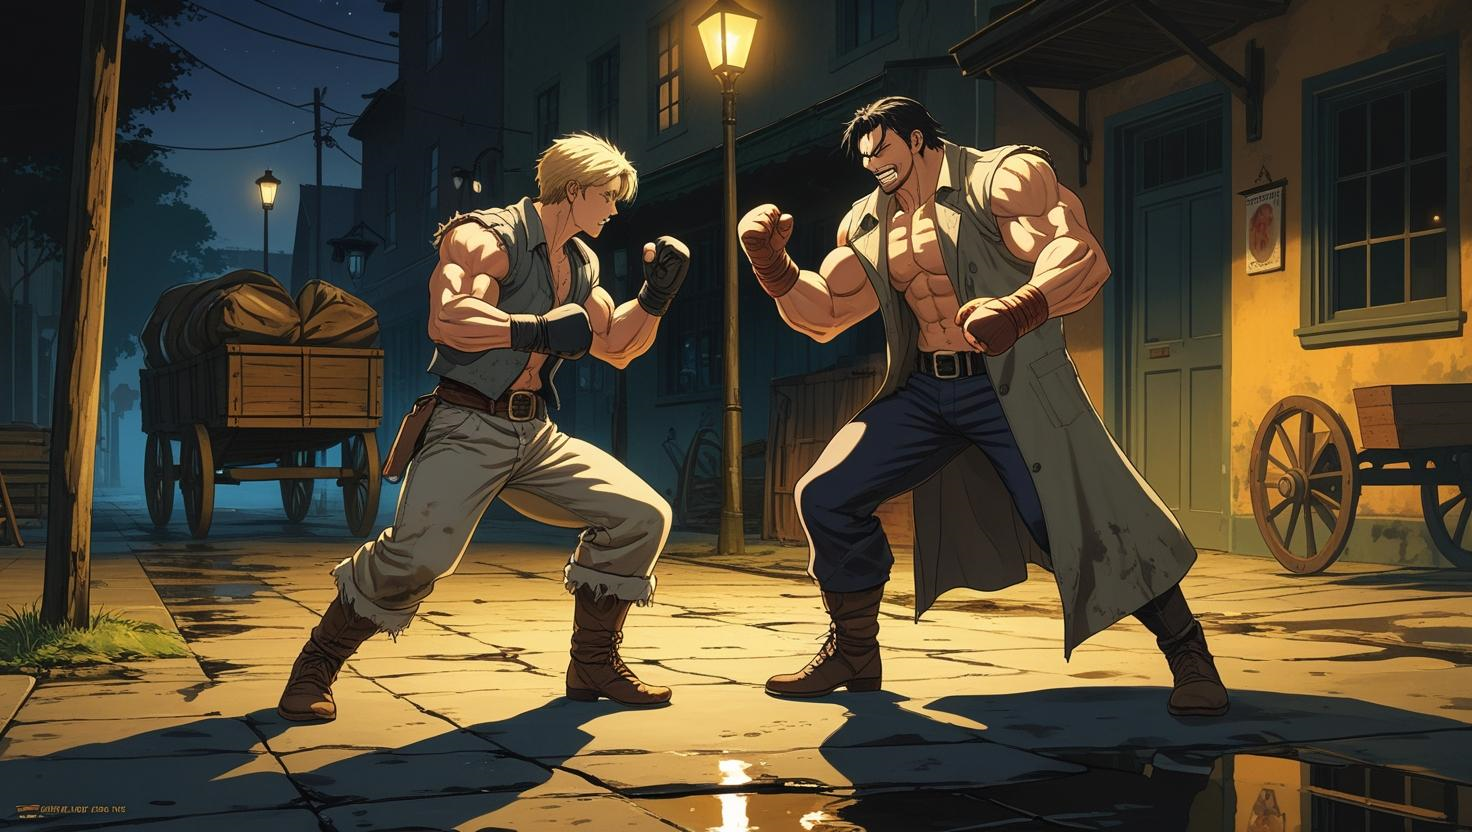
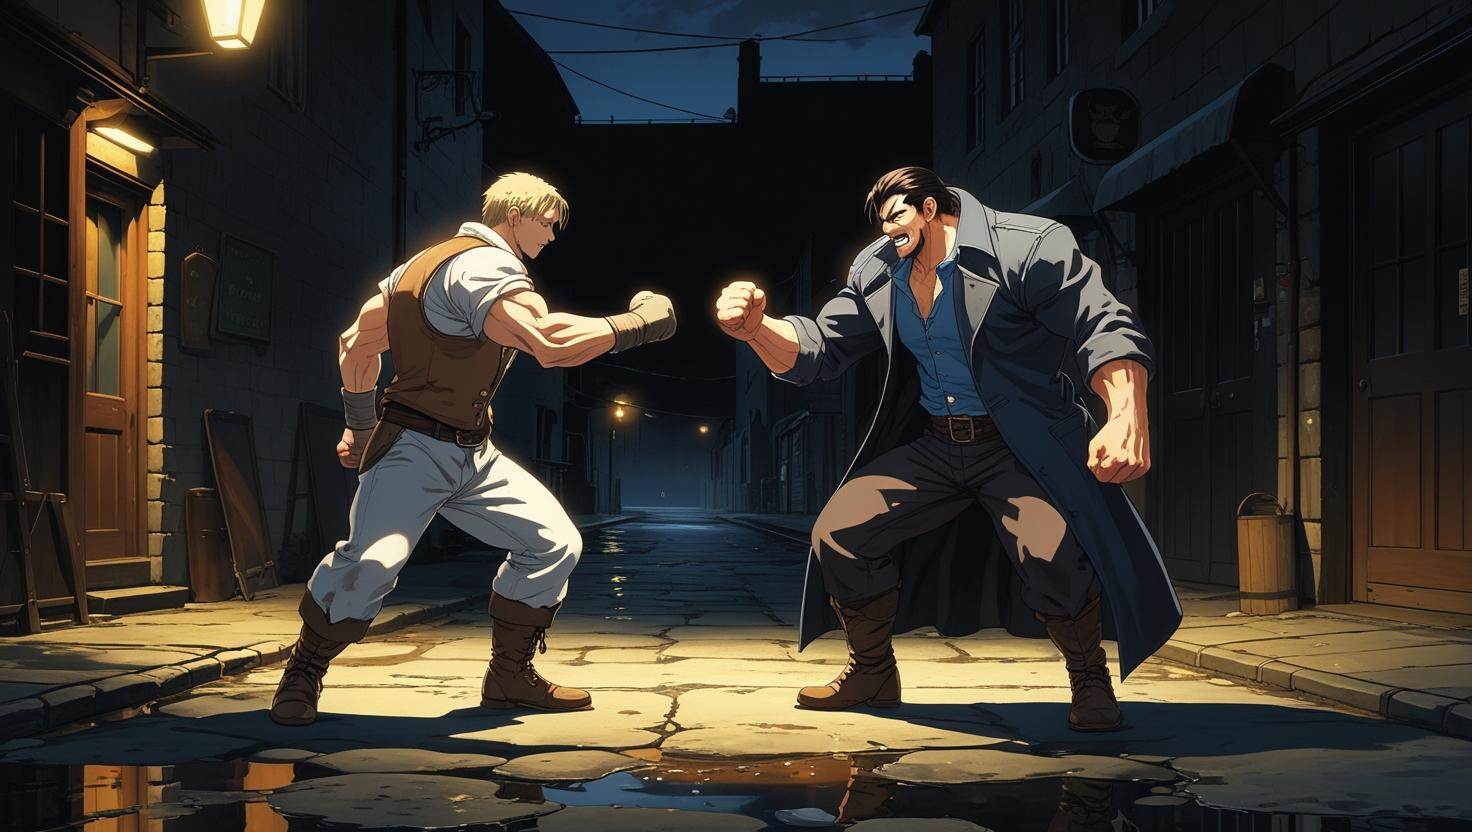
pictures

diff --git a/Game/Return_goods.py b/Game/Return_goods.py
@@ -40,7 +40,7 @@ root.grid_columnconfigure(2, weight=0)  # NPC
 
 #Background image - Needs to be png files
 #Nice to have: Background pictures that gets bigger with the window
-Bg_image_path = resource_path("Image/Background/Beginning.png")
+Bg_image_path = resource_path("Image/Background/Thief.png")
 Bg_image = Image.open(Bg_image_path)
 Bg_image = Bg_image.resize((1280, 500), Image.Resampling.LANCZOS)
 tk_image = ImageTk.PhotoImage(Bg_image)
@@ -59,7 +59,7 @@ hero_label = Label(root, image=hero_tk, bg='#000000')
 hero_label.grid(row=1, column=0, sticky="nsew", padx=10, pady=10)
 
 #Character pictures - Swift NPC with name of picture
-npc_image_path = resource_path("Image/Character/Barkeep.png")
+npc_image_path = resource_path("Image/Character/Villan.png")
 npc_image = Image.open(npc_image_path)
 npc_image = npc_image.resize((120, 120))
 npc_tk = ImageTk.PhotoImage(npc_image)

diff --git a/Game/Thief.py b/Game/Thief.py
@@ -45,7 +45,7 @@ root.grid_columnconfigure(2, weight=0)  # NPC
 
 #Background image - Needs to be png files
 #Nice to have: Background pictures that gets bigger with the window
-Bg_image_path = resource_path("Image/Background/Beginning.png")
+Bg_image_path = resource_path("Image/Background/Thief.png")
 Bg_image = Image.open(Bg_image_path)
 Bg_image = Bg_image.resize((1280, 500), Image.Resampling.LANCZOS)
 tk_image = ImageTk.PhotoImage(Bg_image)
@@ -64,7 +64,7 @@ hero_label = Label(root, image=hero_tk, bg='#000000')
 hero_label.grid(row=1, column=0, sticky="nsew", padx=10, pady=10)
 
 #Character pictures - Swift NPC with name of picture
-npc_image_path = resource_path("Image/Character/Barkeep.png")
+npc_image_path = resource_path("Image/Character/Villan.png")
 npc_image = Image.open(npc_image_path)
 npc_image = npc_image.resize((120, 120))
 npc_tk = ImageTk.PhotoImage(npc_image)
